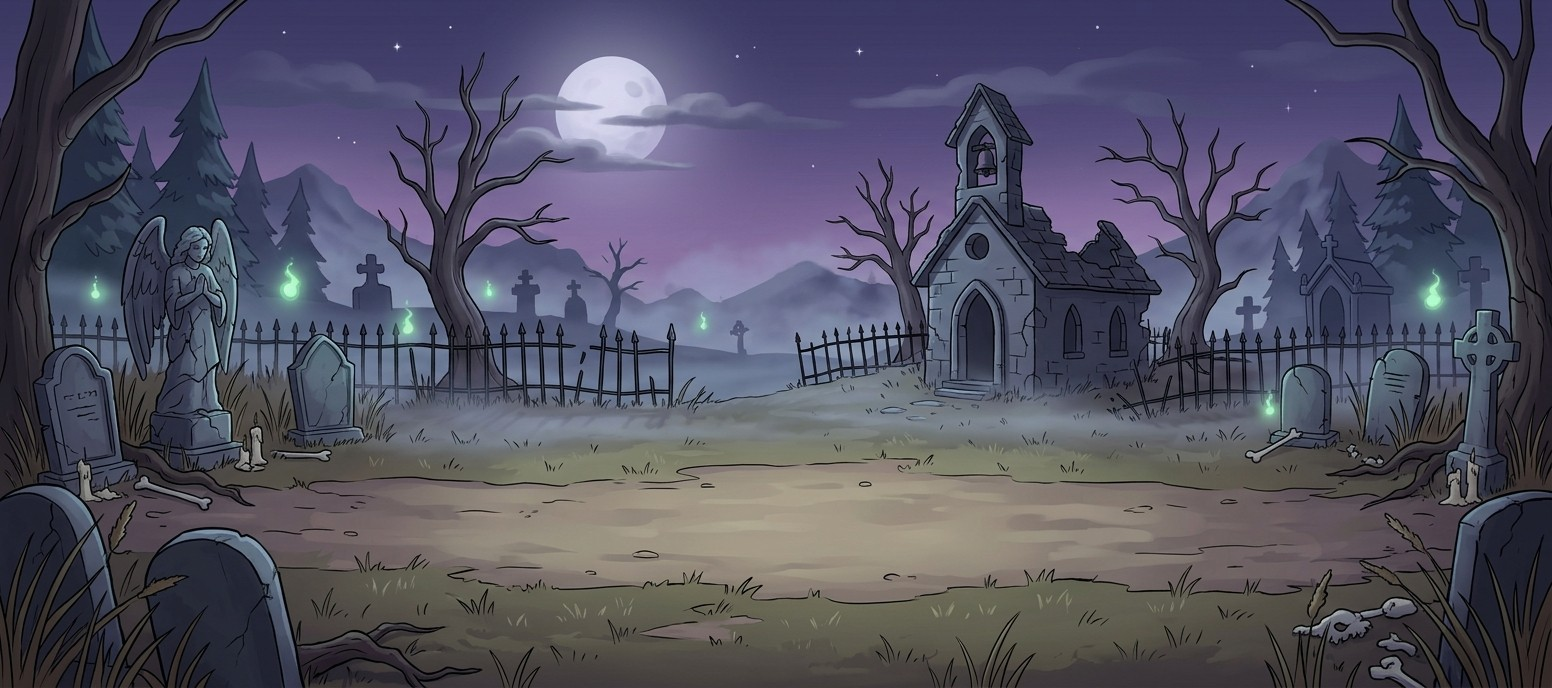
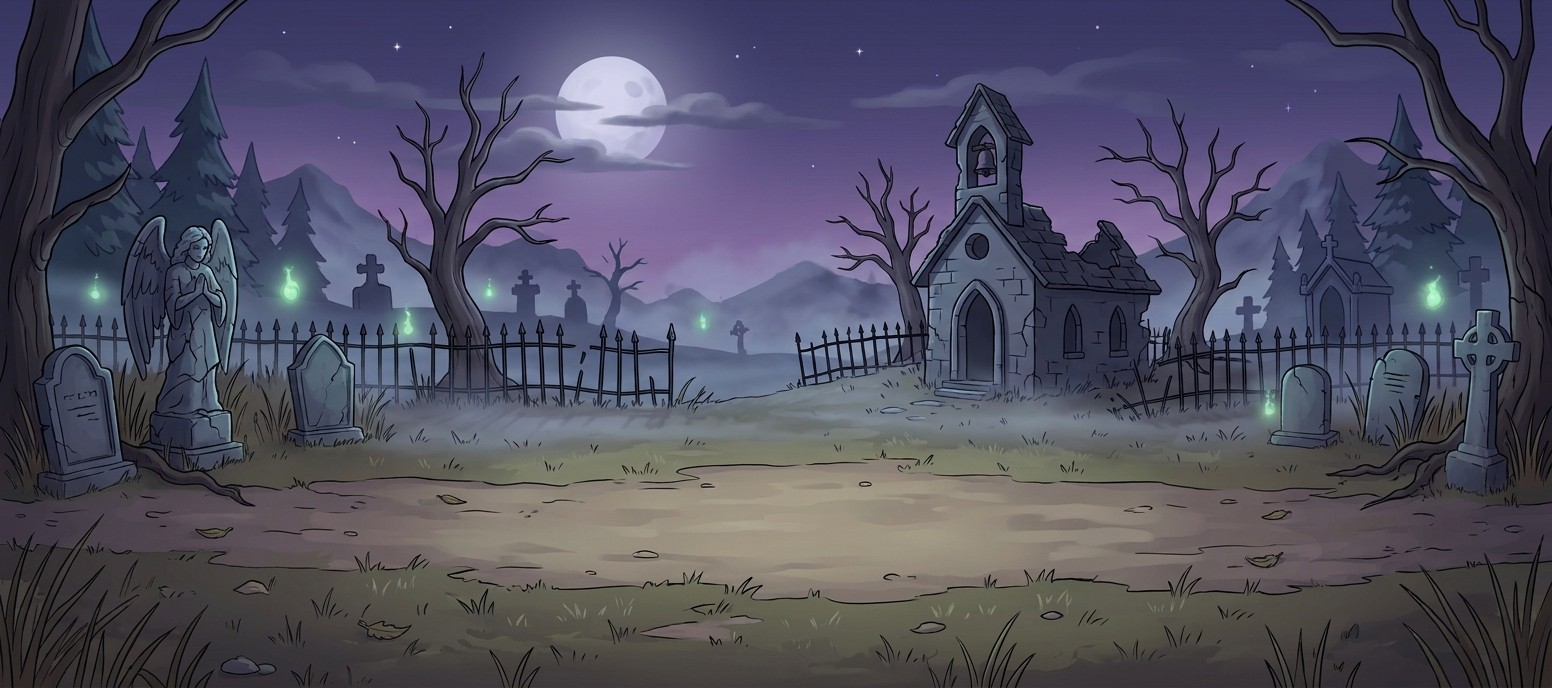
Etapa 1: fondo nuevo sin objetos delante, ampliado (fondoZoom) para que los enemigos de arriba pisen el suelo
Claude-Session: https://claude.ai/code/session_01DTPX1NxnBLpFNa3pZ6sEzH

diff --git a/js/logica/22-campanas-etapas-de-10.js b/js/logica/22-campanas-etapas-de-10.js
@@ -65,9 +65,10 @@
     senor:     { nombre: 'Señor del Abismo',   vida: 4.4,  dano: 1.9,  armadura: 80, jefe: true, avance: 170, filtro: 'sepia(1) saturate(9) hue-rotate(-45deg) brightness(.45) contrast(1.6)',
                  aplica: [{ estado: 'quemadura', prob: .4, turnos: 3, pct: .05 }, { estado: 'aturdimiento', prob: .1, turnos: 1 }] },
   };
-  // Etapas: cada nivel = [nombre, enemigos en orden]; fondo: imagen de la batalla (sin ella, el fondo por defecto)
+  // Etapas: cada nivel = [nombre, enemigos en orden]; fondo: imagen de la batalla (sin ella, el fondo por defecto);
+  // fondoZoom: la amplía anclada abajo para que su suelo llegue hasta la fila de enemigos de arriba
   const ETAPAS = [
-    { id: 1, nombre: 'Etapa 1: El cementerio maldito', fondo: 'img/fondos/etapa1.jpg', niveles: [
+    { id: 1, nombre: 'Etapa 1: El cementerio maldito', fondo: 'img/fondos/etapa1.jpg', fondoZoom: 1.5, niveles: [
       ['Puertas del cementerio',  ['parca', 'parca', 'sombria']],
       ['Tumbas olvidadas',        ['parca', 'sombria', 'sombria']],
       ['Cripta sombría',          ['sombria', 'carmesi', 'sombria']],
@@ -188,7 +189,7 @@
     ui.pintarCampanas();
   }
   // fondo de la batalla: el de la etapa de esa campaña (las demás batallas, el de siempre)
-  const fondoBatalla = c => { const e = c.idCampana && ETAPAS.find(x => x.id === +c.idCampana.split('-')[0]); return (e && e.fondo) || null; };
+  const fondoBatalla = c => { const e = c.idCampana && ETAPAS.find(x => x.id === +c.idCampana.split('-')[0]); return e && e.fondo ? { img: e.fondo, zoom: e.fondoZoom || 1 } : null; };
   function batallaCampana(c, d) { return { nombre: `${c.nombre} · ${DIFICULTADES[d]}`, idCampana: c.id, dif: d, ancestral: c.ancestral, ...c.dificultades[d] }; }
   // Señor del Abismo (3-10): pieza Ancestral segura la primera vez en cada dificultad; luego, con esta probabilidad (no en el Auto)
   const PROB_ANCESTRAL = { normal: .1, dificil: .15, pesadilla: .25, infierno: .4 };

diff --git a/index.html b/index.html
@@ -626,7 +626,7 @@
 
   /* ---- Batalla ---- */
   #pBatalla { background:linear-gradient(#5b8bd6 0 60%, #4c9a3f 60%); }
-  #pBatalla.con-fondo { background-color:#2a2440; background-size:cover; background-position:50% 100%; background-repeat:no-repeat; }   /* fondo de la etapa */
+  #pBatalla.con-fondo { background-color:#2a2440; background-size:auto calc(100% * var(--zoom-fondo, 1)); background-position:50% 100%; background-repeat:no-repeat; }   /* fondo de la etapa */
   .escena { flex:1; width:100%; display:flex; flex-direction:column; align-items:center; justify-content:center; }
   .oleada { font:bold 16px monospace; color:#fff; text-shadow:1px 1px 0 #000; margin-bottom:8px; }
   .arena { position:relative; transform-origin:50% 100%; display:flex; gap:240px; align-items:flex-end; }

diff --git a/js/pantalla/19-jefe-mundial-gran-minotauro.js b/js/pantalla/19-jefe-mundial-gran-minotauro.js
@@ -253,7 +253,8 @@
     marcoGuerrero.classList.remove('carga');
     $('pBatalla').classList.toggle('modo-grupo', c.grupo);
     const fondo = fondoBatalla(c); $('pBatalla').classList.toggle('con-fondo', !!fondo);
-    $('pBatalla').style.backgroundImage = fondo ? `url(${fondo})` : '';
+    $('pBatalla').style.backgroundImage = fondo ? `url(${fondo.img})` : '';
+    $('pBatalla').style.setProperty('--zoom-fondo', fondo ? fondo.zoom : 1);
     // el acelerador solo existe en combates sin otros jugadores online; en multijugador, x1 (salvo en modo pruebas)
     const multi = !!(c.reyes || c.calabozo) && !MODO_PRUEBAS;
     $('btnVel').style.display = multi ? 'none' : '';
